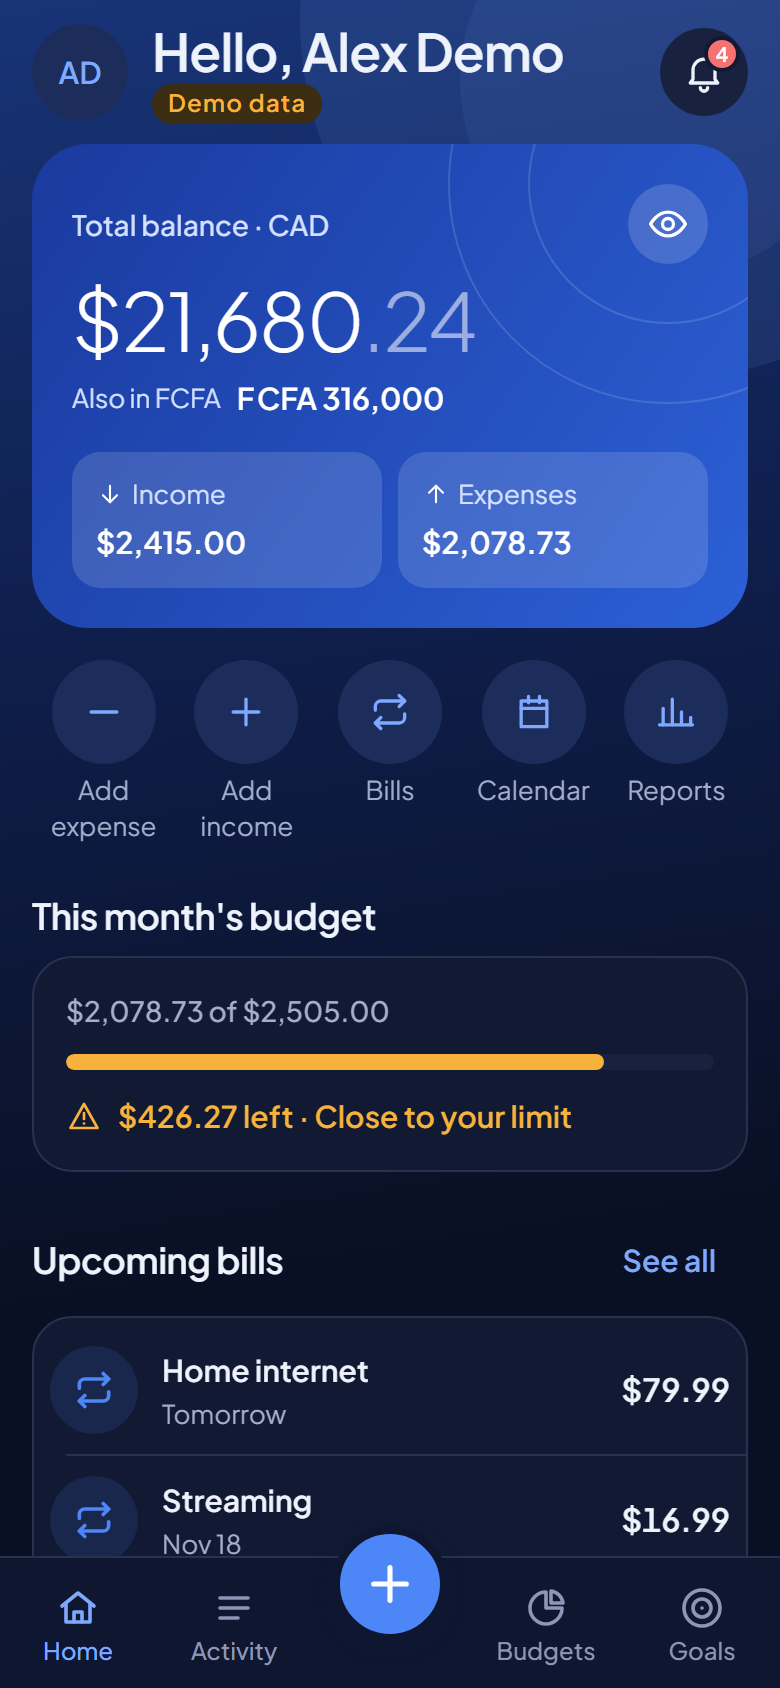
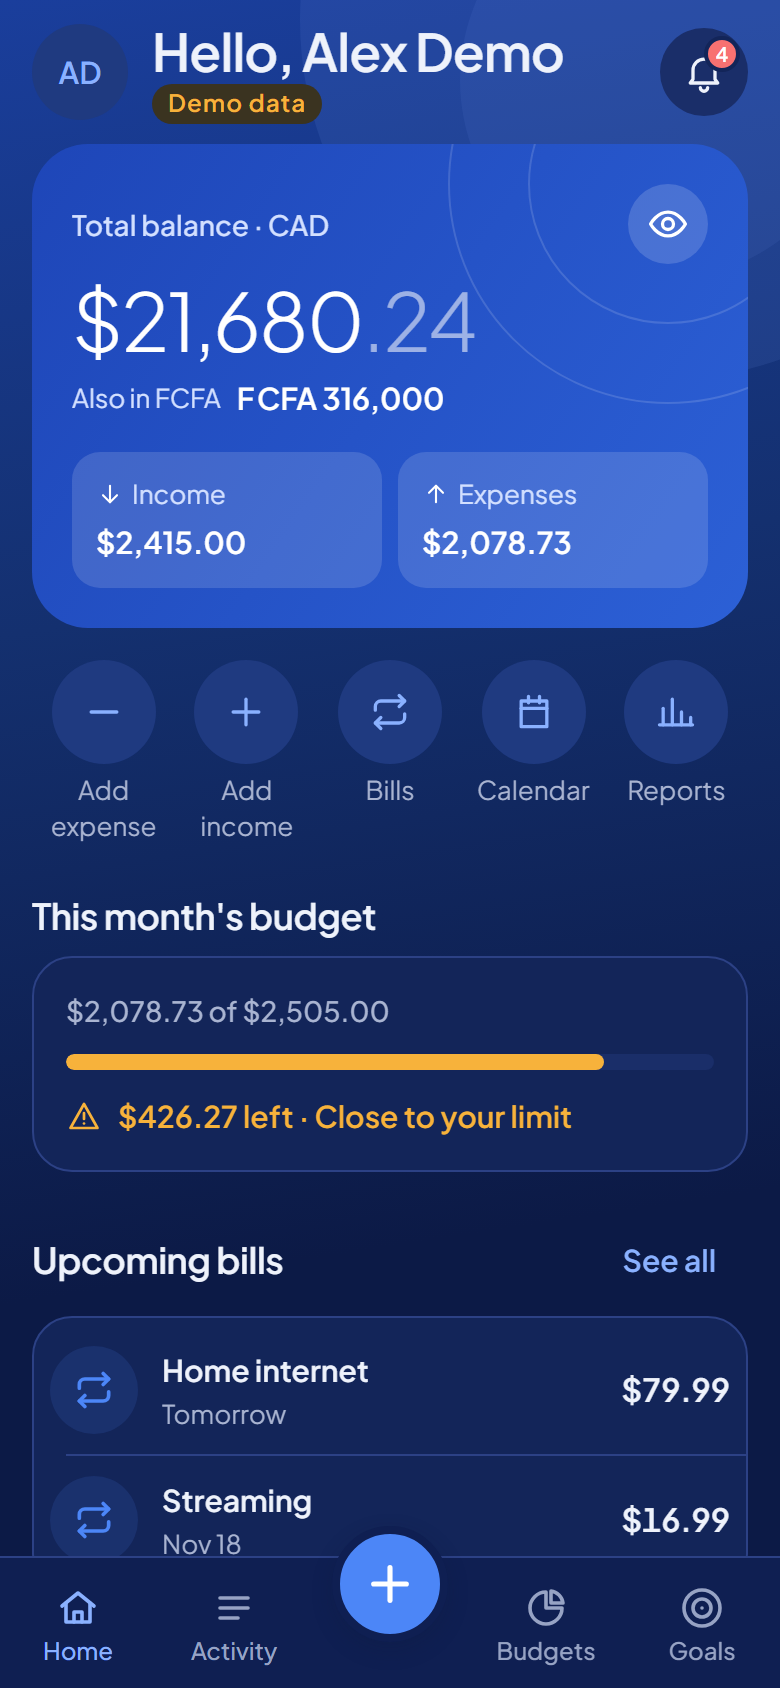
Dark theme: bluer sky, background and surfaces
Royal-blue sky top, blue base and card surfaces instead of near-black,
brighter dark hero and splash; all text pairs still pass the AA tests.

diff --git a/src/ui/theme/tokens.ts b/src/ui/theme/tokens.ts
@@ -81,35 +81,35 @@ export const lightPalette: Palette = {
 };
 
 export const darkPalette: Palette = {
-  bg: '#0A1024',
-  skyTop: '#183477',
-  skyMid: '#0F1F4D',
-  surface: '#121A33',
-  surfaceAlt: '#18223F',
-  surfaceRaised: '#1D2847',
-  border: '#26324F',
+  bg: '#0C1A46',
+  skyTop: '#1A3E9C',
+  skyMid: '#14306F',
+  surface: '#132559',
+  surfaceAlt: '#1A2E69',
+  surfaceRaised: '#20367A',
+  border: '#2C4185',
   text: '#EEF2FB',
-  textSecondary: '#A3AECB',
-  textMuted: '#8C97B5',
+  textSecondary: '#A9B4D1',
+  textMuted: '#97A3C4',
   accent: '#4C86F7',
-  accentText: '#7FA9FF',
-  accentSoft: '#1C2D5C',
+  accentText: '#8AB1FF',
+  accentSoft: '#1F3A80',
   onAccent: '#FFFFFF',
-  navy: '#0A1024',
+  navy: '#0C1A46',
   positive: '#34C46A',
-  positiveSoft: '#123425',
+  positiveSoft: '#123A3A',
   warning: '#F7B23B',
-  warningSoft: '#3A2D12',
+  warningSoft: '#3A3320',
   warningText: '#F7B23B',
   danger: '#F87171',
-  dangerSoft: '#3D1A1F',
-  heroFrom: '#1A3A9E',
+  dangerSoft: '#3D1E3A',
+  heroFrom: '#1E46B8',
   heroTo: '#2C60D6',
   heroText: '#FFFFFF',
   heroTextSecondary: '#D3E0FF',
   overlay: 'rgba(0, 0, 0, 0.6)',
   focus: '#7FA9FF',
-  tabBar: '#0F1630',
+  tabBar: '#0F1F52',
   chart: ['#4C86F7', '#34C46A', '#F7B23B', '#A78BFA', '#F472B6', '#2DD4BF', '#FB923C', '#94A3B8'],
 };
 

diff --git a/app.config.ts b/app.config.ts
@@ -11,7 +11,7 @@ export default ({ config }: ConfigContext): ExpoConfig => ({
   version: '0.1.0',
   orientation: 'portrait',
   userInterfaceStyle: 'automatic',
-  backgroundColor: '#0A1024',
+  backgroundColor: '#0C1A46',
   icon: './assets/icon.png',
   ios: {
     supportsTablet: true,
@@ -40,7 +40,7 @@ export default ({ config }: ConfigContext): ExpoConfig => ({
         image: './assets/splash-icon.png',
         imageWidth: 200,
         resizeMode: 'contain',
-        dark: { backgroundColor: '#0D1E4F', image: './assets/splash-icon.png' },
+        dark: { backgroundColor: '#1A3A9E', image: './assets/splash-icon.png' },
       },
     ],
     'expo-sqlite',

diff --git a/src/ui/AppSplash.tsx b/src/ui/AppSplash.tsx
@@ -56,7 +56,7 @@ export function AppSplash({ visible, onHidden }: { visible: boolean; onHidden: (
   }, [visible, opacity, onHidden]);
 
   const sky: [string, string, string] =
-    scheme === 'dark' ? ['#060B1C', '#14307A', '#3C6FD8'] : ['#123A9E', '#2D66E0', '#9CC4FF'];
+    scheme === 'dark' ? ['#0C1A46', '#1E46B8', '#4F86F0'] : ['#123A9E', '#2D66E0', '#9CC4FF'];
 
   return (
     <Animated.View
